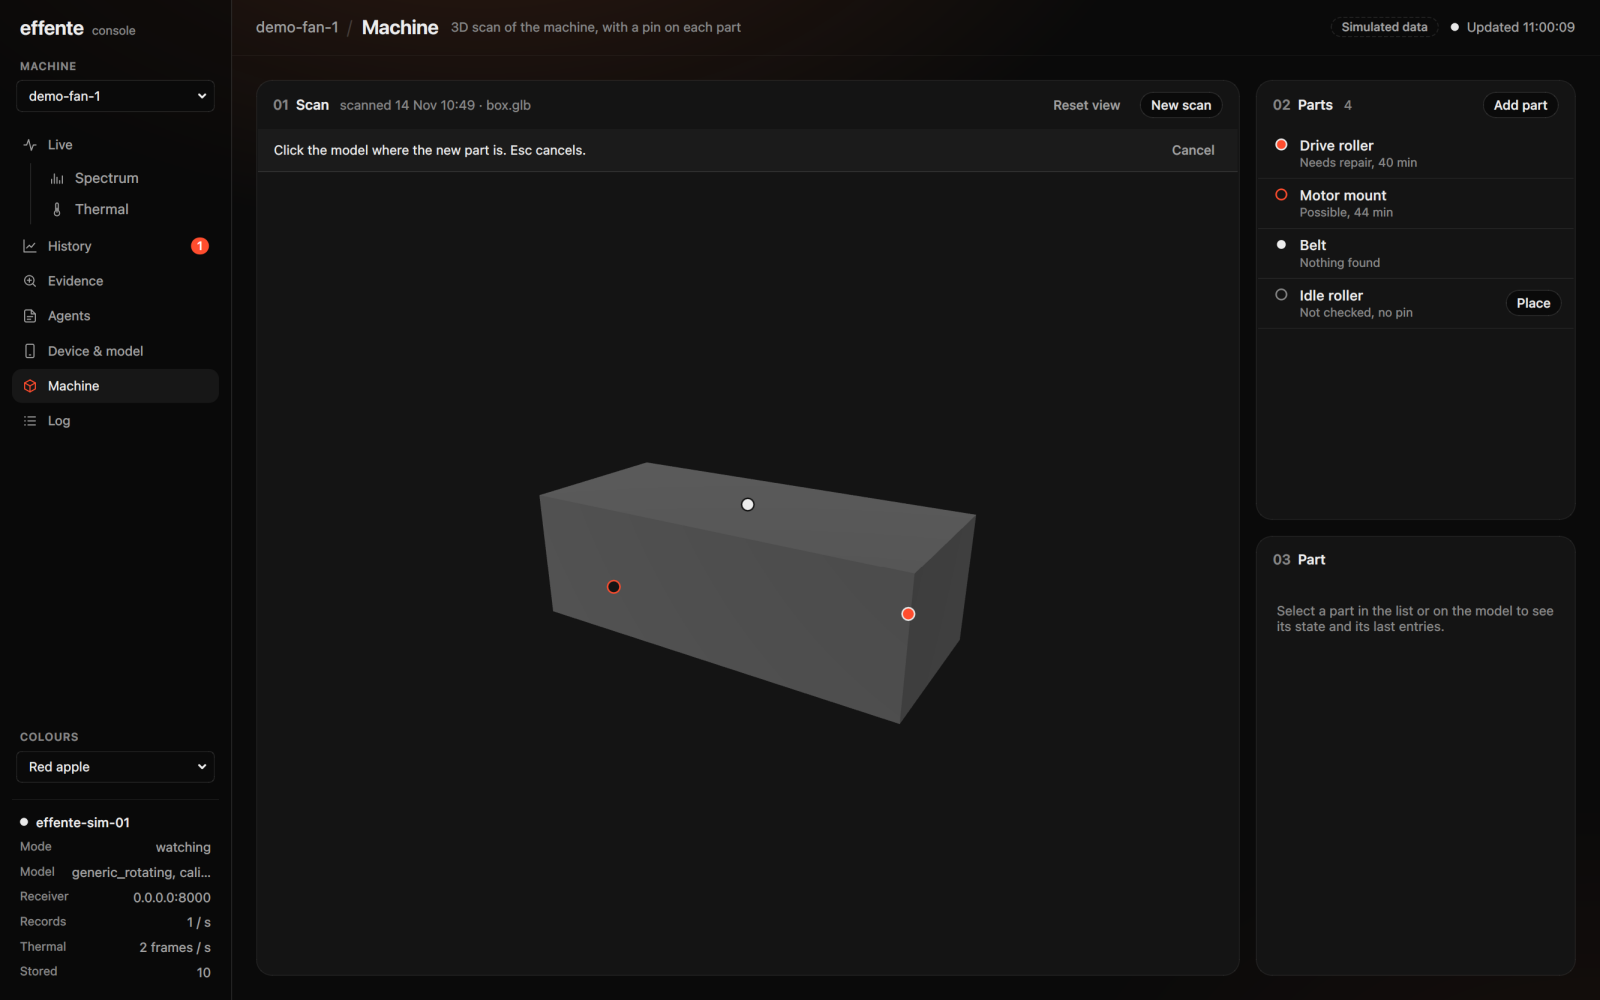
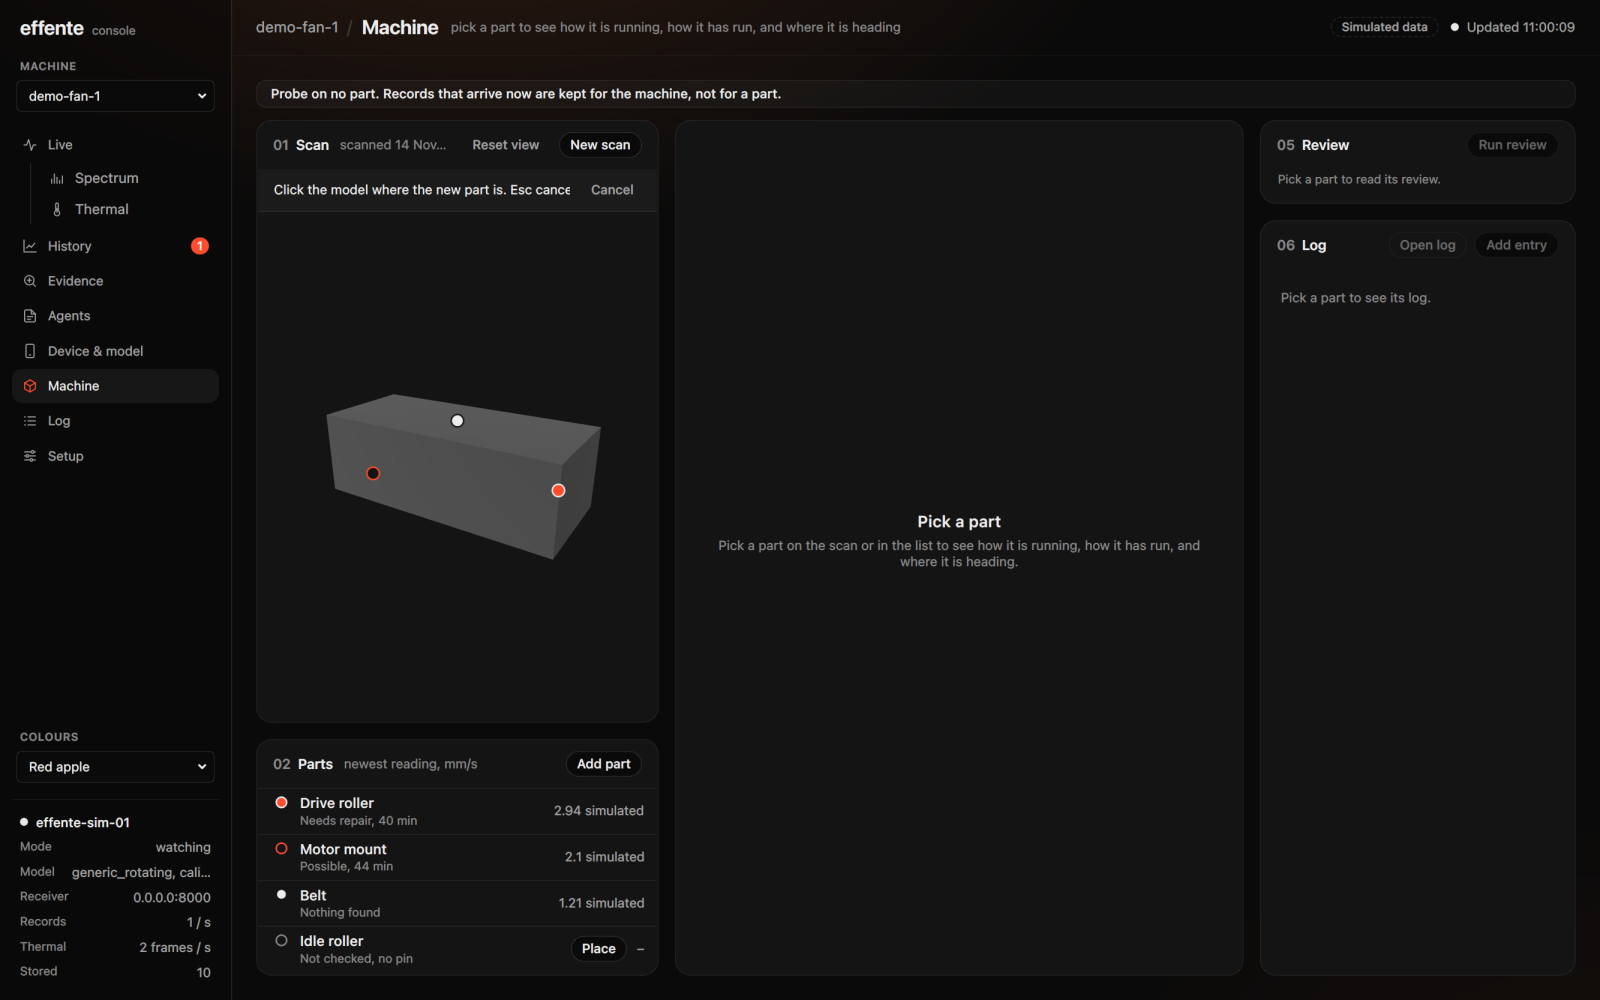
test: screenshots of every Machine page state at 1600x1000, main ones at 1440x820
Taken on a real screen (Hyprland, Wayland) from the fake sample, which is
hand-written and all simulated. shoot.py gains --size and --only, and the
one-screen states: weeks of history, a first day, a part never probed,
Trend with show_days off, spectrum, no normal yet, real and simulated
readings on one chart, agree, and no part picked.

diff --git a/platform/desktop/tests/pages_machine/shoot.py b/platform/desktop/tests/pages_machine/shoot.py
@@ -1,19 +1,21 @@
 """Render the Machine page inside the shell on FakeState, once for each state it has.
 
-    python3 platform/desktop/tests/pages_machine/shoot.py [out_dir]
+    python3 platform/desktop/tests/pages_machine/shoot.py [--size 1600x1000] [--only machine,...] [out_dir]
 
 Run it on a real screen, not with QT_QPA_PLATFORM=offscreen: offscreen the 3D view draws nothing, so
 the pictures that show the model are left out there and the script says so. On a real screen a
 window opens for each picture and closes again.
 
-The real MainWindow at 1600x1000, with the sample data of tests/fake_scans.py and
+The real MainWindow at 1600x1000 (or `--size`), with the sample data of tests/fake_scans.py and
 tests/fake_partlog.py. That sample is written by hand and is all simulated, and the model is a plain
-box written by code, not a scan of anything. `convert_again` is added to the fake here: it is not in
+box written by code, not a scan of anything. Where a picture needs the newest visit's evidence, the
+fake's records are stamped with the part as one more visit (sample.stamp_visit). `convert_again` is added to the fake here: it is not in
 `state.scans` yet.
 """
 
 from __future__ import annotations
 
+import argparse
 import sys
 import time
 from datetime import UTC, datetime
@@ -35,8 +37,62 @@ POINT = (0.05624, 0.11301, 0.09)  # a point on the box's front face, as a click 
 
 def _ready(state, page):
     from fake_partlog import DRIVE_ROLLER
+    from sample import stamp_visit
 
+    stamp_visit(state, DRIVE_ROLLER)
+    state.log.set_probe_part(DRIVE_ROLLER)
     state.log.select_part(DRIVE_ROLLER)
+
+
+def _spectrum(state, page):
+    _ready(state, page)
+    page.part_column.evidence_panel.view.button("spectrum").click()
+
+
+def _no_normal(state, page):
+    from sample import no_normal
+
+    no_normal(state)
+    _spectrum(state, page)
+
+
+def _trend(state, page):
+    state.log.set_show_days(False)
+    _ready(state, page)
+
+
+def _all_history(state, page):
+    _ready(state, page)
+    page.part_column.chart_panel.range.button("all").click()
+
+
+def _first_day(state, page):
+    from fake_partlog import MOTOR_MOUNT
+
+    state.log.select_part(MOTOR_MOUNT)
+
+
+def _never(state, page):
+    from fake_partlog import IDLE_ROLLER
+
+    state.log.select_part(IDLE_ROLLER)
+
+
+def _mixed(state, page):
+    from fake_partlog import DRIVE_ROLLER
+    from sample import stamp_visit
+
+    stamp_visit(state, DRIVE_ROLLER, simulated=False)  # one real visit after weeks of simulated ones
+    state.log.select_part(DRIVE_ROLLER)
+
+
+def _agree(state, page):
+    _ready(state, page)
+    page.review_panel.agree_button.click()
+
+
+def _no_part(state, page):
+    state.log.select_part(None)
 
 
 def _possible(state, page):
@@ -111,6 +167,15 @@ def _no_pin(state, page):
 # file name -> (what to do to a fresh FakeState and its Machine page before the picture, shows the model)
 SHOTS = {
     "machine": (_ready, True),
+    "machine-all-history": (_all_history, True),
+    "machine-first-day": (_first_day, True),
+    "machine-never-probed": (_never, True),
+    "machine-trend": (_trend, True),
+    "machine-spectrum": (_spectrum, True),
+    "machine-no-normal": (_no_normal, True),
+    "machine-real-and-simulated": (_mixed, True),
+    "machine-agree": (_agree, True),
+    "machine-no-part": (_no_part, True),
     "machine-possible": (_possible, True),
     "machine-nothing-found": (_nothing_found, True),
     "machine-adding": (_adding, True),
@@ -138,15 +203,24 @@ def _settle(app, page, model: bool) -> None:
         time.sleep(0.01)
 
 
-def main(out_dir: str | None = None) -> None:
+def main(argv=None) -> None:
     from app.pages.machine.view3d import can_draw
     from fakes import FakeState
 
+    parser = argparse.ArgumentParser(description=__doc__.splitlines()[0])
+    parser.add_argument("out_dir", nargs="?")
+    parser.add_argument("--size", default=f"{W}x{H}", help="window size, for example 1440x820")
+    parser.add_argument("--only", default="", help="comma separated picture names")
+    args = parser.parse_args(argv)
+    width, height = (int(v) for v in args.size.lower().split("x"))
+    only = {n for n in args.only.split(",") if n}
     app = QApplication.instance() or QApplication(sys.argv[:1])
     apply_theme(app)
-    out = Path(out_dir or HERE.parents[1] / "screenshots" / "machine")
+    out = Path(args.out_dir or HERE.parents[1] / "screenshots" / "machine")
     out.mkdir(parents=True, exist_ok=True)
     for name, (prepare, model) in SHOTS.items():
+        if only and name not in only:
+            continue
         if model and not can_draw():
             print(f"left out, needs a real screen: {name}")
             continue
@@ -154,7 +228,7 @@ def main(out_dir: str | None = None) -> None:
         state._now = NOW.timestamp() * 1000.0
         state.scans.convert_again = lambda scan_id, s=state: s.scans.set_status("converting")
         w = MainWindow(state, receiver_address="0.0.0.0:8000")
-        w.setFixedSize(W, H)  # a fixed size also keeps a tiling window manager from resizing it
+        w.setFixedSize(width, height)  # a fixed size also keeps a tiling window manager from resizing it
         w.show()
         w.navigate("machine")
         page = w.pages["machine"]
@@ -163,12 +237,13 @@ def main(out_dir: str | None = None) -> None:
         _settle(app, page, False)
         path = out / f"{name}.png"
         # one picture pixel for each window pixel, whatever the screen's scale
-        w.grab().scaled(W, H, Qt.AspectRatioMode.IgnoreAspectRatio, Qt.TransformationMode.SmoothTransformation).save(
+        w.grab().scaled(width, height, Qt.AspectRatioMode.IgnoreAspectRatio, Qt.TransformationMode.SmoothTransformation).save(
             str(path))
-        print(path)
+        scroll = page.parentWidget().parentWidget().parentWidget().verticalScrollBar().maximum()
+        print(path, "page scrolls" if scroll else "")
         w.close()
         w.deleteLater()
 
 
 if __name__ == "__main__":
-    main(sys.argv[1] if len(sys.argv) > 1 else None)
+    main()
